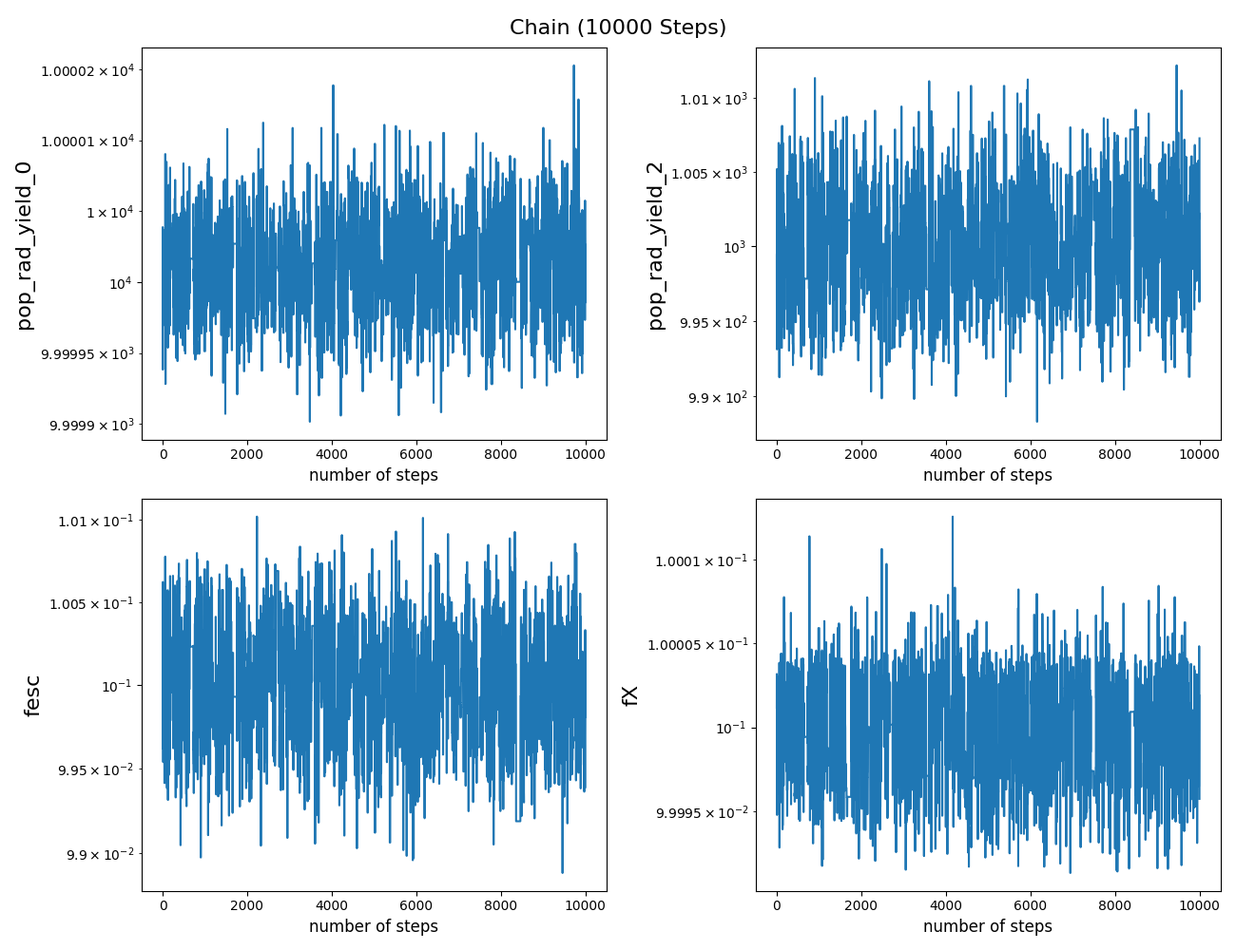
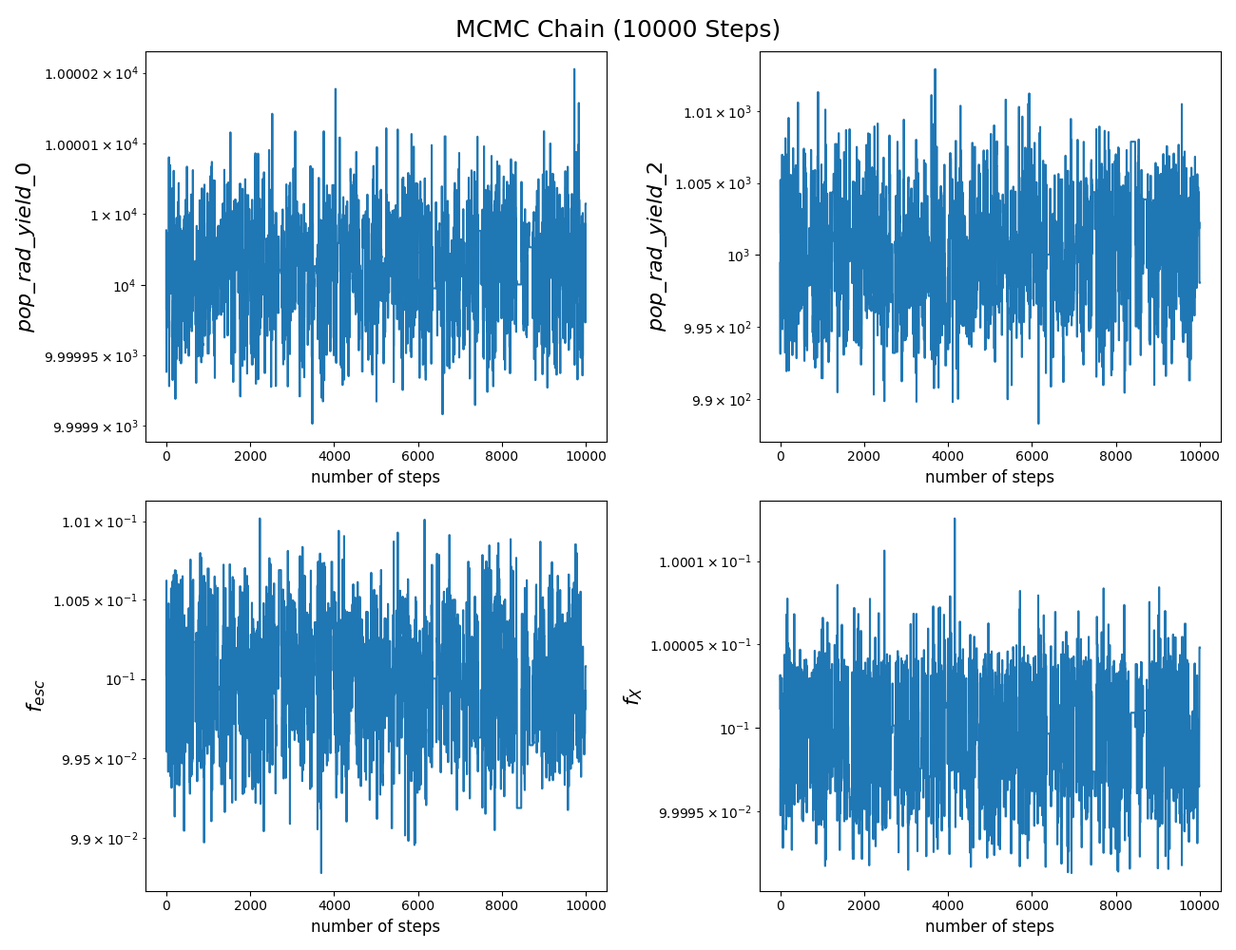
finalized the plot captions and mock data section

diff --git a/main.tex b/main.tex
@@ -649,7 +649,7 @@ Two equivalent approaches can be used to generate correlated noise: Cholesky and
 To gain more precision, it is possible to use the eigenvalues decomposition of the normalized covariance matrix (where diagonal samples all equal unity). The normalization process is done by multiplying the covariance matrix with its own diagonal. Eventually, the drawn samples are denormalized by scaling them with the square root of the diagonal matrix.\par
 \begin{figure}[h!]
 \centering
-\includegraphics[scale =0.6]{corner_plot_chain.png}
+\includegraphics[scale =0.6]{corner_plots.png}
 \caption[Corner plots of an \gls{mcmc} chain]{\hl{Corner plots} (parameter vs. parameter) of a typical \gls{mcmc} chain from a four-variable Gaussian model. The lower right panel clearly shows patterns of correlation between a pair of parameters. Sampling from a multivariate normal distribution based on the covariance matrix associated with these samples will take the correlations into account.}
 \label{fig:corner_plots}
 \end{figure}
@@ -664,9 +664,9 @@ The primary focus of this approach lies in examining the results obtained from t
 Figure \ref{fig:csq_test} shows an example of the distribution of disparity between the chi-square values.\par
 \begin{figure}[h!]
 \centering
-\includegraphics[scale =0.8]{chi-sqaure test.jpg}
+\includegraphics[scale =0.8]{csq_hist.png}
 \caption[Histogram of disparity in the chi-square values of drawn samples]{Histogram illustrating the distribution of the disparity between the chi-squares of drawn samples for a four-variable Gaussian model. The samples are drawn from the covariance matrix calculated at the point of best fit (output of \gls{lm}). We expect the average difference in the $\chi^2$ statistics for two different samples to be of order unity per each parameter.
-On this plot, the average of disparity is 3.97, and the standard deviation is 2.83, in acceptable agreement with our expectations. Therefore, the best-fit parameters are considered a "good fit".}
+On this plot, the average of disparity is 4.03, and the standard deviation is 2.83, in acceptable agreement with our expectations. Therefore, the best-fit parameters are considered a "good fit".}
 \label{fig:csq_test}
 \end{figure}
 \subsection{The Chi-Square Parameter Correlation Test}
@@ -674,7 +674,7 @@ On this plot, the average of disparity is 3.97, and the standard deviation is 2.
 An alternative approach for result verification involves creating plots that depict the relationship between the chi-square values of drawn samples and individual parameters. With reference to the defined chi-square equation (see Equation \ref{eq:chi-square matrix}), which captures the non-linear dependence of chi-square on model parameters, it is anticipated that a parabolic trend will be observed. Figure \ref{fig:csq_params} illustrates plots of chi-square values against parameters for the identical mathematical model as presented in Figure \ref{fig:csq_test}. \par
 \begin{figure}[h!]
 \centering
-\includegraphics[scale =0.9]{csq_params.jpg}
+\includegraphics[scale =0.5]{csq_vs_params.png}
 \caption[Chi-Square vs. parameters plots]{Figures demonstrating the values of chi-square associated with the drawn samples versus the values of parameters for a four-variable Gaussian model. The $\chi^2$ is expected to have a parabolic dependency on the value of parameters based on its non-linear definition (\ref{eq:chi-square matrix}). This is a test to confirm the accuracy of the covariance matrix and the procedure of sample drawing.}
 \label{fig:csq_params}
 \end{figure}
@@ -683,7 +683,7 @@ An alternative approach for result verification involves creating plots that dep
 \label{chap:results}
 Following the discussions of chapter \ref{chap:method} to formulate a specific data fitting algorithm based on the synchronized utilization of \gls{lm} and \gls{mcmc}, this chapter is devoted to demonstrating the results of applying this method to the global $21cm$ signal. Our ultimate goal is to offer a theoretical fit for the \gls{edges} data. However, this goal might not be feasible, given the amplitude and shape of the reported signal.\par
 An essential step in the process of model fitting is to determine the parameters of the physical model. As we choose to use \gls{ares} for generating the theoretical curve, the parameterization of theory is restricted to the notation employed by \gls{ares}. We will briefly introduce our chosen parameters and revisit their connection to the underlying physics of the $21cm$ line. We proceed by evaluating the quality of fit by estimating the parameters of a mock data set, which in fact, is an \gls{ares}-generated curve. The reliability of the results is proven by considering the values of estimated parameters and the assumed error bars of the mock data. \par
-Finally, we represent the results of parameter estimation for the half-amplitude \gls{edges} data\footnote{The reason behind choosing this value for the multiplication factor is discussed in section \ref{chap:results,sub:edges,subsub:m_factor}}. However, in agreement with our earlier expectation, even a multiplication factor of 0.5 is not a sufficient component to explain the behavior of \gls{edges} data with the predictions of the standard physics. \par
+Finally, we represent the results of parameter estimation for the half-amplitude \gls{edges} data\footnote{The for the choice of multiplication factor will be discussed.}. However, in agreement with our earlier expectation, even a suppressing multiplication factor is not a sufficient component to explain the behavior of \gls{edges} data with the predictions of the standard physics. \par
 
 \section{Key Astrophysical Parameters}
 Based on the discussions of \ref{chap:global21cm,sub:physics}, the shape and amplitude of global $21cm$ signal are intensely dependent on underlying astrophysical processes, especially those related to the \gls{sfr} and reheating of the \gls{igm}. In this section, we will take the discussion further and address our current understanding of this dependency on four specific parameters which are able to map the parameter space of the global $21cm$ signal effectively. Constraining these parameters will result in improved comprehension of the thermal history of the \gls{igm} and the population of X-ray sources during high-redshift epochs \cite{21century}.\par
@@ -711,18 +711,20 @@ It is essential to mention that although it is theoretically possible to investi
     $f_{coll}$ is the collapse fraction (fraction of gas inside collapsed objects, fraction of mass in halos more massive than $m_{min})$, $\bar{n}_{rec}$ is the mean number of recombinations per ionized hydrogen atom, $\zeta$ is the ionizing efficiency, $f_*$ is the star formation efficiency (fraction of baryons converted into stars), and $A_{He} = 4/(4 - 3Y_p) = 1.22$. The mass fraction of helium, $Y_p$, is a correction factor to convert the number of ionizing photons per baryon in stars to the fraction of ionized hydrogen. Our limited understanding of the mass distribution of the emitting stars introduces an uncertainty in the number of ionizing photons per baryon $N_{ion}$, that is emitted by galaxies. There is also considerable uncertainty in the fraction of ionizing photons $f_{esc}$ that escape the host galaxy to ionize the \gls{igm}. Therefore, our study is toward the urgent demand to constrain these parameters with observational data \cite{low_frequency, 21century}.\par
     Alternatively, we could have utilized $f_*$ as a parameter of our model. However, since $f_{esc}$ and $N_{ion}$ act as multiplication factors to $f_*$ in the expression for ionizing efficiency \ref{eq:ionizing_efficiency}, thus, both of them are individually degenerate with star formation rate.
 \end{enumerate}
-Figure \ref{fig:sensivity} shows the influence of change in the values of the above-mentioned parameters on the global $21cm$ curve generated by \gls{ares}. It must be noted that these parameters are only physically meaningful in a limited region of phase space (A hypercube where the combination of parameters is physically meaningful). Going beyond this region will result in a failure in calculating the global $21cm$ curve. our developed script is designed to handle this issue and stop it from aborting the whole run \footnote{The Python code for the \gls{mcmc} is designed such that it will return an arbitrarily large chi-square for that combination of parameters beyond the permitted hypercube. Therefore, the probability of these points getting accepted into the chain will be automatically low.}, but the \gls{mcmc} might not be able to reach convergence if the algorithm faces a numerous samples beyond the allowed region.\par
+Figure \ref{fig:sensivity} shows the influence of change in the values of the above-mentioned parameters on the global $21cm$ curve generated by \gls{ares}. It must be noted that these parameters are only physically meaningful in a limited region of phase space (A hypercube where the combination of parameters is physically meaningful). Going beyond this region will result in a failure in calculating the global $21cm$ curve. our developed script is designed to handle this issue and stop it from aborting the whole run \footnote{The Python code for the \gls{mcmc} is designed such that it will return an arbitrarily large chi-square for that combination of parameters beyond the permitted hypercube. Therefore, the probability of these points getting accepted into the chain will be automatically low.}, but the \gls{mcmc} might not be able to reach convergence if the algorithm faces numerous samples beyond the allowed region.\par
 %-----------------------------------------------------------------------------------
 \section{Parameter Estimation of Mock Data}
 \label{chap:results,sub:known_curve}
-Prior to applying our developed algorithm to fit real-world data, we perform a validation test by using it to fit a known \gls{ares} curve. We create the \gls{ares} curve using a predetermined set of parameters ($\emph{pop\_rad\_yield\_0\_}=10^4, \emph{pop\_rad\_yield\_2\_}=10^3, f_{esc}=0.1, f_X= 0.1$), treating it as mock data. By comparing the parameter values obtained from the algorithm to the expected values within the range of the assumed error bars, we can confirm the correct functioning of the algorithm.\par
-The results of this validation test are shown in table \ref{tab:mcmc_results_known_curve} and Figure{}. The output is an acceptable fit considering the overall shape and amplitude of the signal.
-Figure \ref{fig:chain_known_curve} indicates the white-noise behavior of parameters throughout the chain, which is in agreement with our anticipation for a converged chain. Performing \emph{chi-Square consistency test} on our samples showed that the average disparity between the chi-square of drawn samples is 49.20, \hl{roughly an order of magnitude larger than the initial expectation ($\approx4$).}\par
-We proceed by performing the \emph{chi-square parameter correlation test}. The results are depicted in Figure \ref{fig:csq_hist_known_curve}. In the hypothetical ideal case, we expect to see parabolic behavior. However, Figure \ref{fig:csq_vs_params_zoomed_known_curve}, which demonstrates the zoomed version of the \ref{fig:csq_hist_known_curve}, gives insights on parabolic behavior for lower values of chi-square. Figure \ref{fig:corner_plots_known_curve} also shows the correlation between different parameters of the model.\par
+Prior to applying our developed algorithm to fit real-world data, we perform a validation test by using it to fit a mock data set. We create an \gls{ares} curve using a predetermined set of parameters, treating it as mock data with an assumed error bar of $10^{-3}K$ on each data point. we confirm the correct functioning of the algorithm by comparing the obtained fitted parameters to the expected values.\par
+The results of this validation test are shown in table \ref{tab:mcmc_results_known_curve}. The initial row contains the genuine parameters employed in generating the mock data, while the second row exhibits the fitting outcome. Subsequently, the third row displays the one-sigma error bar of the fit, which is based on the standard deviation of \gls{mcmc} chain. The lowest row demonstrates the relative fitting error, which serves as a measure for assessing the disparity between the true values of astrophysical parameters and the corresponding fit.\par 
+Figure \ref{fig:fit_curve_known_curve} is the illustration of the data in table \ref{tab:mcmc_results_known_curve}. 
+The blue dotted curve and the red curve on the left panel depict the mock data and the corresponding fit, respectively.
+On the other hand, the right panel, which is the zoomed version of the same plot, demonstrates the two-sigma confidence interval of the fit. The overall output is an acceptable fit considering both the shape and amplitude of the signal.\par
+Figure \ref{fig:chain_known_curve} indicates the white-noise behavior of parameters throughout the chain, which is in agreement with our anticipation for a converged chain. Performing \emph{chi-Square consistency test} on our samples showed that the average disparity between the chi-square of drawn samples is 49.20, roughly an order of magnitude larger than the initial expectation ($\approx4$) (refer to Figure \ref{fig:csq_hist_known_curve}). The \emph{chi-square parameter correlation test} (Figures \ref{fig:csq_vs_params_knwon_curve}) did not show parabolic behavior initially. However, Figure \ref{fig:csq_vs_params_zoomed_known_curve}, which demonstrates the zoomed version of the \ref{fig:csq_vs_params_knwon_curve}, gives insights on parabolic behavior for lower values of chi-square. Figure \ref{fig:corner_plots_known_curve} illustrates the corner plots of this chain. The lower left panel indicates that the $f_X$ and $pop\_rad\_ yield\_2$ have the highest amount of correlation in all pairs of parameters.\par
 
 \begin{table}
 \centering
-\caption[Results of fitting a known ARES curve with MCMC chain]{Results of fitting a known ARES curve with MCMC chain}
+\caption[Results of fitting a mock data set]{Results of fitting a mock data set with mock chain. The first row is the actual parameters used to generate the mock data. The second row is the fit value of the same astrophysical parameters. The third row is the one-sigma error bar of fit, and eventually, the fourth row represents the relative fitting error which is a measure of disparity between the values of the first and second rows.}
 \label{tab:mcmc_results_known_curve}
 \begin{tabular}{|c|c|c|c|c|}
 \hline
@@ -732,7 +734,8 @@ True values & $1 \times 10^ {4}$ & $1 \times 10^ {3}$ & 0.1 & 0.1\\
 \hline
 Fitted values & $9.9999 \times 10^ {3}$ & $9.9941 \times 10^ {2}$ & $1.0002 \times 10^ {-1}$ & $1.0000 \times 10^ {-1}$ \\
 \hline
-Error-bar of fit & $3.5417 \times 10^ {-2}$ & $3.8612 \times 10^ {0}$& $3.5782 \times 10^ {-4}$ & $3.3929 \times 10^ {-6}$ \\
+Error-bar of fit & $3.4727 \times 10^ {-2}$ & $3.8932
+\times 10^ {0}$& $3.6299 \times 10^ {-4}$ & $3.3186 \times 10^ {-6}$ \\
 \hline
 Fitting Error & 0.0001\% & 0.0264 \%& 0.0152\%& 0.0003\%\\
 \hline
@@ -740,71 +743,82 @@ Fitting Error & 0.0001\% & 0.0264 \%& 0.0152\%& 0.0003\%\\
 \end{table}
 %-----------------------------------------------------------------------------------
 \section{Parameter Estimation of EDGES data}
-This section demonstrates the results of applying our developed method to the \gls{edges} data, which is the only available observational data set of the global $21cm$ signal. Based on the fact that the large amplitude of this data is not completely explainable by standard physics and it is roughly more than two times higher than the most optimistic theoretical curves, we tend to use the \gls{edges} data with half the amplitude. This argument is supported by the analysis of the section \ref{chap:results,sub:edges,subsub:m_factor}, which calculates this multiplication factor using \gls{lm}.
-Furthermore, as a matter of convenience in the first-step analysis, we refrain from employing the actual noise model used by the \gls{edges} group. Instead, we approximate the noise using the radiometer equation. The details of this approach is presented in section \ref{chap:results,sub:edges,subsub:error}.\par
-\subsection{Choice of "multiplication factor"}
-\label{chap:results,sub:edges,subsub:m_factor}
-\subsection{error bar calculation}
+This section demonstrates the results of applying our developed method to the \gls{edges} data, which is the only claimed observational data set of the global $21cm$ signal. 
+We formerly discussed that standard physical mechanisms are unable to explain the large amplitude of this data as it is roughly more than two times higher than the most optimistic theoretical curves. On the other hand, \gls{ares}, which generates the theoretical global $21cm$ curve, is based on the predictions of standard physics. Therefore, in order to gain a more realistic fit of the \gls{edges} data, we tend to use a suppressing multiplication factor which draws the amplitude of the data to half of its original value. Furthermore, as a matter of convenience in the first-step analysis, we refrain from employing the actual noise model used by the \gls{edges} group. Instead, we approximate the noise using the radiometer equation. The details of this approach is presented in section \ref{chap:results,sub:edges,subsub:error}.\par
+
+\subsection{Error Bar Calculation}
 \label{chap:results,sub:edges,subsub:error}
 In order to obtain the error bars of the \gls{edges} data for the parameter estimation process, we can directly use the \gls{edges} noise model. Another option is to take advantage of an approximation. The radiometer equation expresses the sensitivity of a radio antenna as a function of three parameters \cite{sensitivity_1, sensitivity_2}.\par
 \begin{equation}
     \frac{\delta T}{T_{sys}} = \frac{1}{\sqrt{Bt}}
 \end{equation}
-Where B is the bandwidth, t is the exposure time, and $T_{sys}$ is the system temperature. Assuming a bandwidth of $10^6Hz$, an exposure time of one day and temperature of $3000K$, we get: $\delta T = 10 ^{-2}K = 10mK$.
+Where B is the bandwidth, t is the exposure time, and $T_{sys}$ is the system temperature. Assuming a bandwidth of $10^6Hz$, an exposure time of one day, and a temperature of $3000K$, we get
+\begin{equation}
+   \delta T_{EDGES} = 10 ^{-2}K = 10mK. 
+\end{equation}
 
-\subsection{results}
- The results of applying our method to \gls{edges} data are shown in table \ref{tab:mcmc_results_edges} and Figure{}. The output is not a perfect fit considering the overall shape and amplitude of the signal.
+\subsection{Results}
+ The results of applying our method to \gls{edges} data are shown in table \ref{tab:mcmc_results_edges} and Figure \ref{fig:fit_curve_edges}. The output is not a perfect fit considering the overall shape and amplitude of the signal.
  Figure \ref{fig:chain_edges} indicates the white-noise behavior of parameters throughout the chain, which is in agreement with our anticipation for a converged chain. Performing \emph{chi-Square consistency test} on our samples showed that the average disparity between the chi-square of drawn samples is \hl{49.20, roughly an order of magnitude larger than the initial expectation ($\approx4$).}\par
  We proceed by performing the \emph{chi-square parameter correlation test}. The results are depicted in Figure \ref{fig:csq_hist_edges}. In the hypothetical ideal case, we expect to see parabolic behavior. Figure \ref{fig:corner_plots_edges} also shows the correlation between different parameters of the model.\par
  
  
 \begin{table}[h!]
 \centering
-\caption[Results of fitting EDGES data with MCMC chain]{Results of fitting EDGES data with MCMC chain}
+\caption[Results of fitting \gls{edges} data with \gls{mcmc} chain]{Results of fitting \gls{edges} data with \gls{mcmc} chain. The upper row is the fit value of four astrophysical parameters of the model, and the lower row is the one-sigma error bar of fit.}
 \label{tab:mcmc_results_edges}
 \begin{tabular}{|c|c|c|c|c|}
 \hline
 \diagbox{Value}{Parameter} & \emph{pop\_rad\_yield\_0\_} & \emph{pop\_rad\_yield\_2\_} & \emph{$f_{esc}$} & \emph{$f_X$}\\
 \hline
-Fitted values & $9.999 \times 10^ {3}$ & $9.994 \times 10^ {2}$ & $1.000 \times 10^ {-1}$ & $1.000 \times 10^ {-1}$ \\
+Fitted values & $4.5493 \times 10^ {3}$ & $2.4759 \times 10^ {3}$ & $3.7010 \times 10^ {-1}$ & $1.3639 \times 10^ {-1}$ \\
 \hline
-Error-bar of fit & $3.541 \times 10^ {-2}$ & $3.861 \times 10^ {0}$& $3.578 \times 10^ {-4}$ & $3.392\times 10^ {-6}$ \\
+Error-bar of fit & $1.8083 \times 10^ {-1}$ & $7.6298 \times 10^ {1}$& $1.1408 \times 10^ {-2}$ & $6.5033\times 10^ {-6}$ \\
 \hline
 \end{tabular}
 \end{table}
+
 % -------------------------------------------------------------------------------------
 \begin{figure}[h!]
 \centering
 \includegraphics[scale =0.5]{sensivity.png}
-\caption[Behaviour of global 21cm model with respect to chosen parameters]{Behaviour of ARES-generated global 21cm models with respect to four parameters: \emph{pop\_rad\_yield\_0\_}, \emph{pop\_rad\_yield\_2\_}, $f_{esc}$, and $f_X$. In each panel, the corresponding parameter posses 10 different values and all other parameters are kept at default values by ARES}
+\caption[Behaviour of global $21cm$ theoretical model with respect to underlying astrophysical parameters]{Behaviour of ARES-generated global $21cm$ models with respect to four astrophysical parameters: \emph{pop\_rad\_yield\_0\_}, \emph{pop\_rad\_yield\_2\_}, $f_{esc}$, and $f_X$. In each panel, the corresponding parameter possesses 10 different values, and other parameters are kept at the values of  $10^4$, $10^5$, $0.2$, and $0.1$, respectively. Each parameter is capable of affecting the shape and depth of the absorption trough.}
 \label{fig:sensivity}
 \end{figure}
 %@@@@@@@@@@@@@@@@@@@@@@@@@@@@@@@@@@@@@@@@@@@@@@@@@@@@@@@@@@@@@@@@@@@@@@@@@@
 \begin{figure}[h!]
 \centering
+\includegraphics[scale =0.7]{fit_curve_mock.png}
+\caption[Results of fitting mock data]{Results of fitting mock data. On the \textbf{left panel}, the blue dotted curve represents the mock data and the assumed uncertainty ($10^{-3}K$) generated by feeding the parameters of table \ref{tab:mcmc_results_known_curve} to \gls{ares}. The red curve demonstrates the fit curve, which is an excellent fit to the data, further validating the developed fitting method. The \textbf{right panel}, is the zoomed version of the left figure, showing the two-sigma confidence interval of the fit, which is not visible on the left.}
+\label{fig:fit_curve_known_curve}
+\end{figure}
+
+\begin{figure}[h!]
+\centering
 \includegraphics[scale =0.5]{chain_known_curve.png}
-\caption[Trend of parameters]{Trend of parameters in the MCMC chain, White noise behaviour is considered as a sign of convergence. The acceptance ratio of the chain is $22.12\%.$}
+\caption[Trend of parameters in the mock data \gls{mcmc} chain]{Trend of parameters in the mock data \gls{mcmc} chain. The depicted white noise behavior is considered as the sign of the convergence of the \gls{mcmc} chain (refer to \ref{chap:method,sub:mcmc,subsub:convergence}). The acceptance ratio of the chain is $20.5\%$, close to the ideal of $25\%$. The one-sigma error bar of the fit (table \ref{tab:mcmc_results_known_curve}) is the standard deviation of this chain.}
 \label{fig:chain_known_curve}
 \end{figure}
 
 \begin{figure}[h!]
 \centering
 \includegraphics[scale =0.7]{csq_hist_known_curve.png}
-\caption[Histogram of Chi-Square of drawn samples]{Histogram of Chi-Square of drawn samples, the mean is 49.20 with standard deviation of 41.98.}
+\caption[Histogram of disparity in the chi-square of drawn samples for the mock data \gls{mcmc} chain]{Histogram of disparity in the Chi-Square of drawn samples for the mock data \gls{mcmc} chain, the mean is 49.20 with a standard deviation of 41.98. Based on the discussions of \ref{chap:method,sub:test,subsub:chi}, we expected the mean to be approximately 4.}
 \label{fig:csq_hist_known_curve}
 \end{figure}
 
 \begin{figure}[h!]
 \centering
-\includegraphics[scale =0.5]{csq_vs_params_knwon_curve.png}
-\caption[Chi-Square of Drawn samples vs parameter values]{Chi-Square of Drawn samples versus parameter values for a known ARES curve with four parameters, The parabolic behaviour is not obvious in these plots.}
+\includegraphics[scale =0.5]{csq_vs_params_known_curve.png}
+\caption[Chi-Square of Drawn samples as a function of parameter values for the mock data]{Figures demonstrating the values of chi-square associated with the drawn samples versus the values of parameters for the mock data set. The $\chi^2$ is
+expected to have a parabolic dependency on the value of parameters. However, the parabolic behavior is not obvious in these plots.}
 \label{fig:csq_vs_params_knwon_curve}
 \end{figure}
 
 \begin{figure}[h!]
 \centering
 \includegraphics[scale =0.5]{csq_vs_params_zoomed_known_curve.png}
-\caption[Chi-Square of Drawn samples vs parameter values, zoomed]{Zoomed version of figure \ref{fig:csq_vs_params_knwon_curve}, A weak parabolic behaviour is observed for low values of $\chi^2$.}
+\caption[Chi-Square of Drawn samples as a function of parameter values for the mock data, zoomed version]{Zoomed version of figure \ref{fig:csq_vs_params_knwon_curve}, A weak parabolic behaviour is observed for low values of $\chi^2$. However, the overall shape is not completely consistent with the expectations of Figure \ref{fig:csq_params}.}
 \label{fig:csq_vs_params_zoomed_known_curve}
 \end{figure}
 
@@ -812,36 +826,53 @@ Error-bar of fit & $3.541 \times 10^ {-2}$ & $3.861 \times 10^ {0}$& $3.578 \tim
 \begin{figure}[h!]
 \centering
 \includegraphics[scale =0.6]{corner_plots_known_curve.png}
-\caption[Corner plots of the chain]{Corner plots of the chain indicating the correlation between the parameters specially in the lower left panel}
+\caption[Corner plots of the mock data chain]{Corner plots of the mock data chain indicate the correlation between the parameters. The lower left panel, which depicts the values of $f_X$ and $pop\_rad\_yield\_2$, shows the highest amount of correlation between a pair of parameters among all the six panels.}
 \label{fig:corner_plots_known_curve}
 \end{figure}
 %@@@@@@@@@@@@@@@@@@@@@@@@@@@@@@@@@@@@@@@@@@@@@@@@@@@@@@@@@@@@@@@@@@@@@@@@@@
 \begin{figure}[h!]
 \centering
+\includegraphics[scale =0.7]{fit_curve_edges.png}
+\caption[Results of fitting \gls{edges} data]{Results of fitting \gls{edges} data. On the \textbf{left panel}, the blue dotted curve represents the half-amplitude \gls{edges} data and the associated uncertainty calculated using the radiometer equation ($10mK$). The red curve demonstrates the fit curve (table \ref{tab:mcmc_results_edges}). Despite using the half-amplitude data, the fit portrays a significant discrepancy with respect to the observed data, further suggesting the impossibility of achieving the \gls{edges} curve with the current well-accepted standard physics. The \textbf{right panel} is the zoomed version of the left figure, showing the two-sigma confidence interval of the fit, which is not visible on the left.}
+\label{fig:fit_curve_edges}
+\end{figure}
+
+\begin{figure}[h!]
+\centering
 \includegraphics[scale =0.5]{chain_edges.png}
-\caption[Trend of parameters]{Trend of parameters in the MCMC chain, White noise behaviour is considered as a sign of convergence. The acceptance ratio of the chain is $22.12\%.$}
+\caption[Trend of parameters in the \gls{edges} data \gls{mcmc} chain]{Trend of parameters in the \gls{edges} data \gls{mcmc} chain. The depicted white noise behavior is considered as the sign of the convergence of the \gls{mcmc} chain (refer to \ref{chap:method,sub:mcmc,subsub:convergence}). The acceptance ratio of the chain is  $23.02\%$, close to the ideal of $25\%$. The one-sigma error bar of the fit (table \ref{tab:mcmc_results_edges}) is the standard deviation of this chain.} 
 \label{fig:chain_edges}
 \end{figure}
 
 \begin{figure}[h!]
 \centering
 \includegraphics[scale =0.7]{csq_hist_edges.png}
-\caption[Histogram of Chi-Square of drawn samples]{Histogram of Chi-Square of drawn samples, the mean is 49.20 with standard deviation of 41.98.}
+\caption[Histogram of disparity in the Chi-Square of drawn samples for the \gls{EDGES} data \gls{mcmc} chain]{Histogram of disparity in the Chi-Square of drawn samples for the \gls{edges} data \gls{mcmc} chain, the mean is 0.28 with a standard deviation of 0.3. Based on the discussions of \ref{chap:method,sub:test,subsub:chi}, we expected the mean to be approximately 4.}
 \label{fig:csq_hist_edges}
 \end{figure}
+
 
 \begin{figure}[h!]
 \centering
 \includegraphics[scale =0.5]{csq_vs_params_edges.png}
-\caption[Chi-Square of Drawn samples vs parameter values]{Chi-Square of Drawn samples versus parameter values for a known ARES curve with four parameters, The parabolic behaviour is not obvious in these plots.}
+\caption[Chi-Square of Drawn samples as a function of parameter values for \gls{edges} data]{Figures demonstrating the values of chi-square associated with the drawn samples versus the values of parameters for the \gls{edges} data set. The $\chi^2$ is
+expected to have a parabolic dependency on the value of parameters, which is only evident in two of the panels.}
 \label{fig:csq_vs_params_edges}
 \end{figure}
 
 \begin{figure}[h!]
 \centering
+\includegraphics[scale =0.5]{csq_vs_params_zoomed_edges.png}
+\caption[Chi-Square of Drawn samples as a function of parameter values for the \gls{edges} data, zoomed version]{Zoomed version of the upper left and lower right panels of Figure \ref{fig:csq_vs_params_edges}. A weak parabolic behavior is observed for low values of $\chi^2$. However, the overall shape is not completely consistent with the expectations of Figure \ref{fig:csq_params}.}
+\label{fig:csq_vs_params_zoomed_edges}
+\end{figure}
+
+
+\begin{figure}[h!]
+\centering
 \includegraphics[scale =0.5]{corner_plots_edges.png}
-\caption[Corner plots of the chain]{Corner plots of the chain indicating the correlation between the parameters specially in the lower left panel}
-\label{fig:corner_plots_known_curve}
+\caption[Corner plots of the \gls{edges} data \gls{mcmc} chain]{Corner plots of the \gls{EDGES} data \gls{mcmc} chain indicate the correlation between the parameters. The middle left panel, which depicts the values of $f_X$ and $pop\_rad\_yield\_0$, appears to show the only correlation between a pair of parameters among all the six panels.}
+\label{fig:corner_plots_edges}
 \end{figure}
 %###################################################################################
 \chapter{Discussion and Conclusion}
@@ -865,6 +896,10 @@ We plan to take the analysis further and include a realistic foreground model. T
 \chapter{Appendices}
 %\section{Derivation of radiometer equation}
 \section{Code snippets and scripts}	
+Python Implementation of the analysis in chapter 5 is publically available on GitHub under the dedicated repository:\par
+\centering
+\href{https://github.com/aryana-haghjoo/My-Project/tree/main/code_final}{https://github.com/aryana-haghjoo/My-Project/tree/main/code\_final}
+
 \label{chap:appendix,sub:code}
 	% Begin Bibliography
 	{
